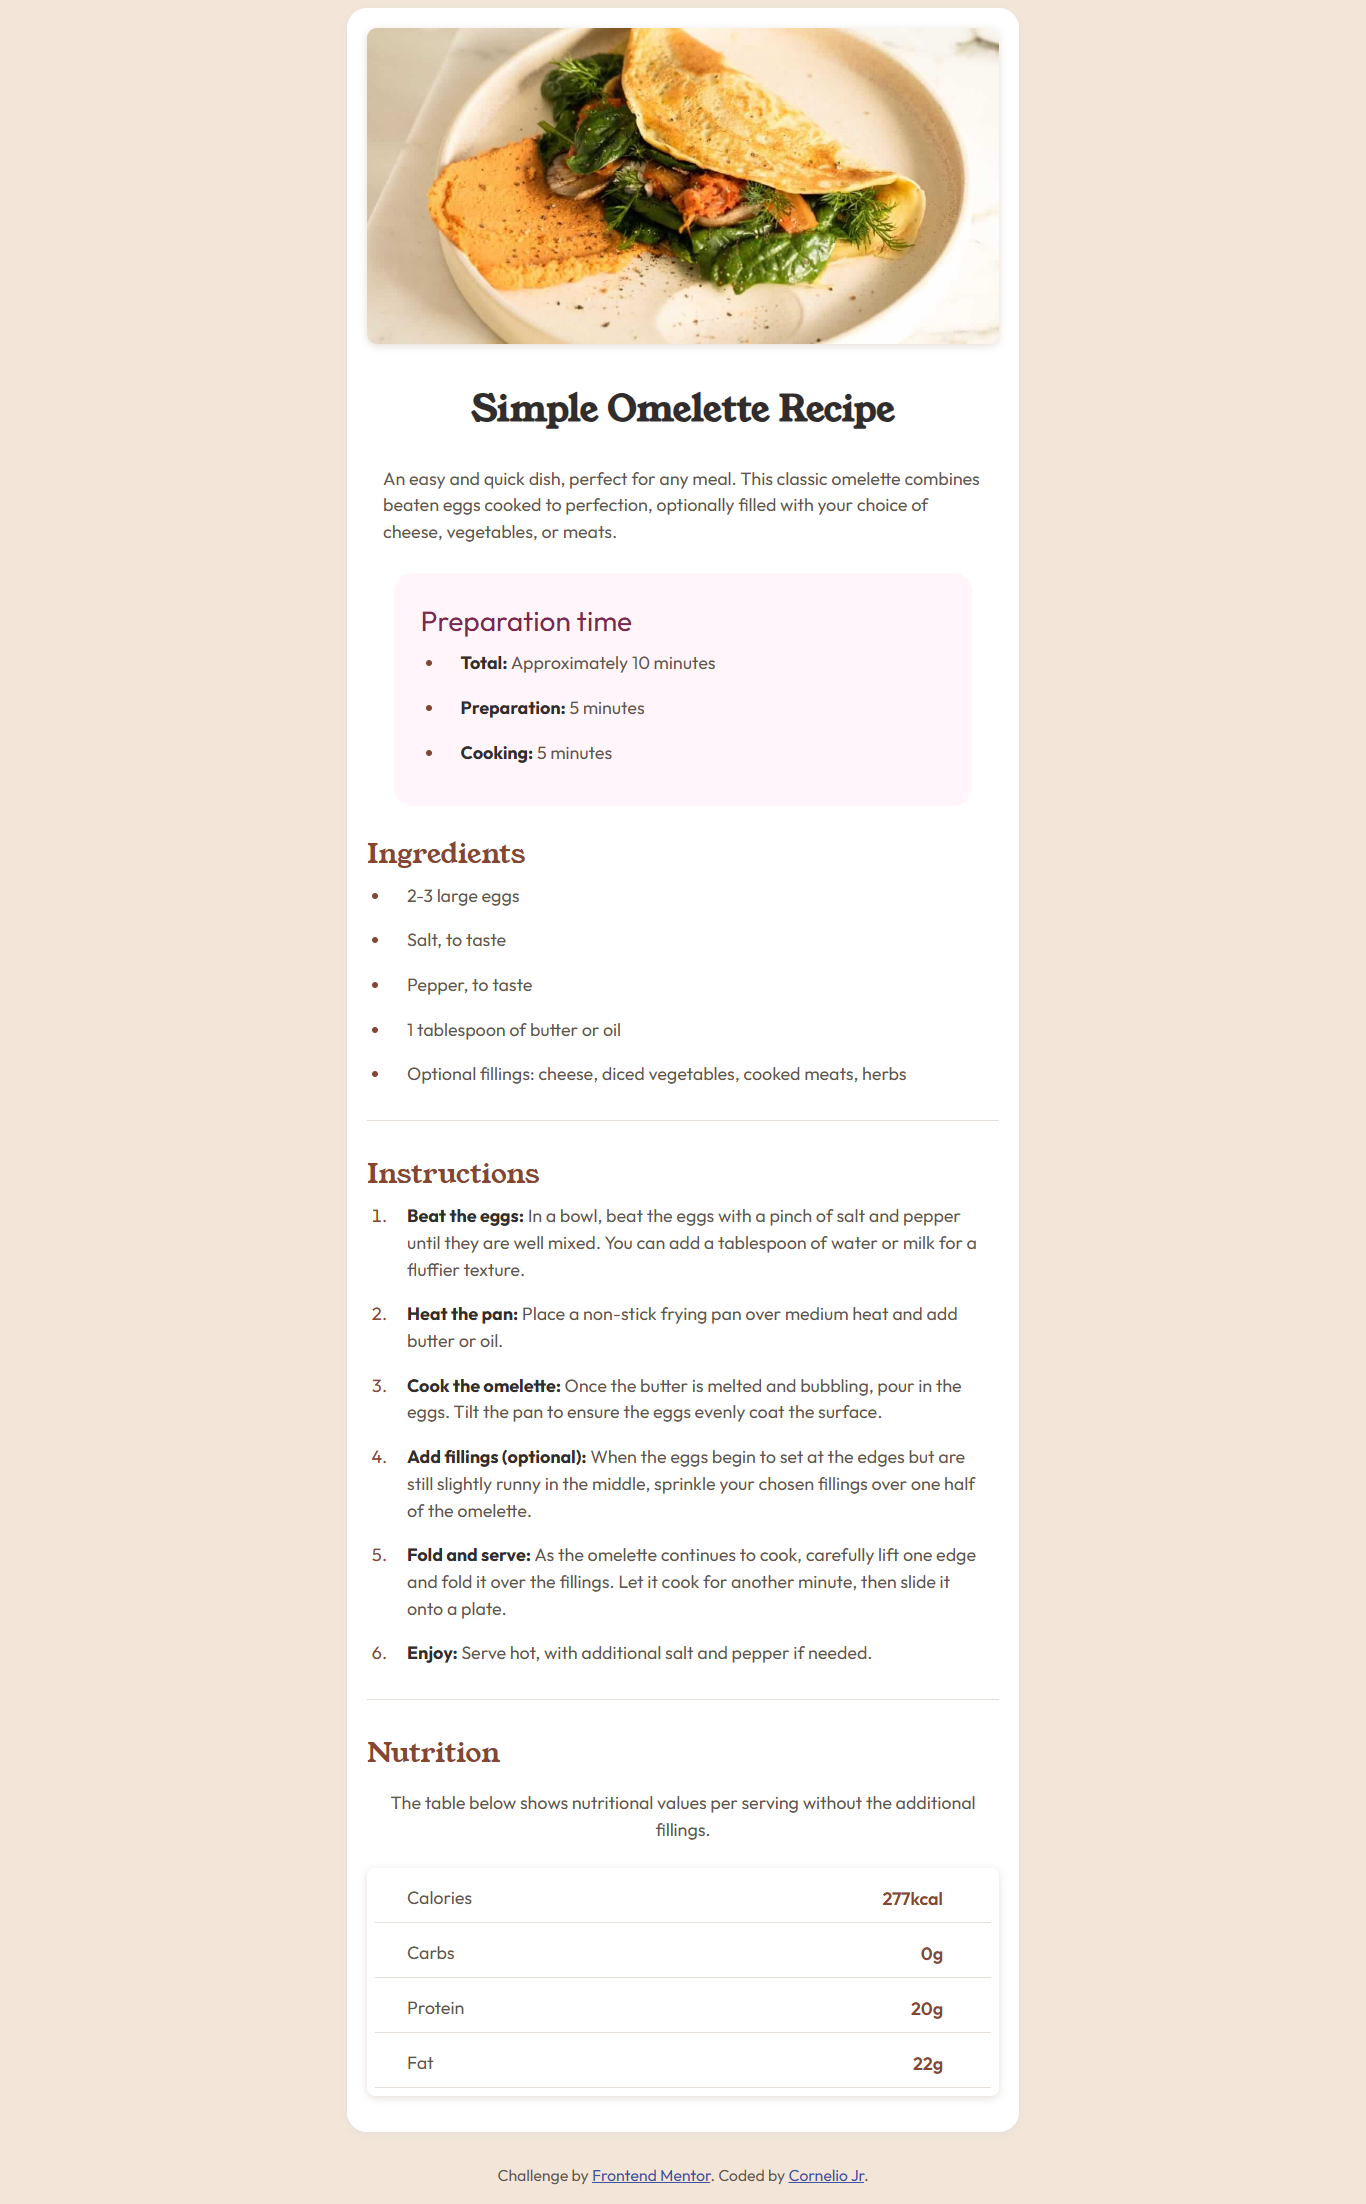
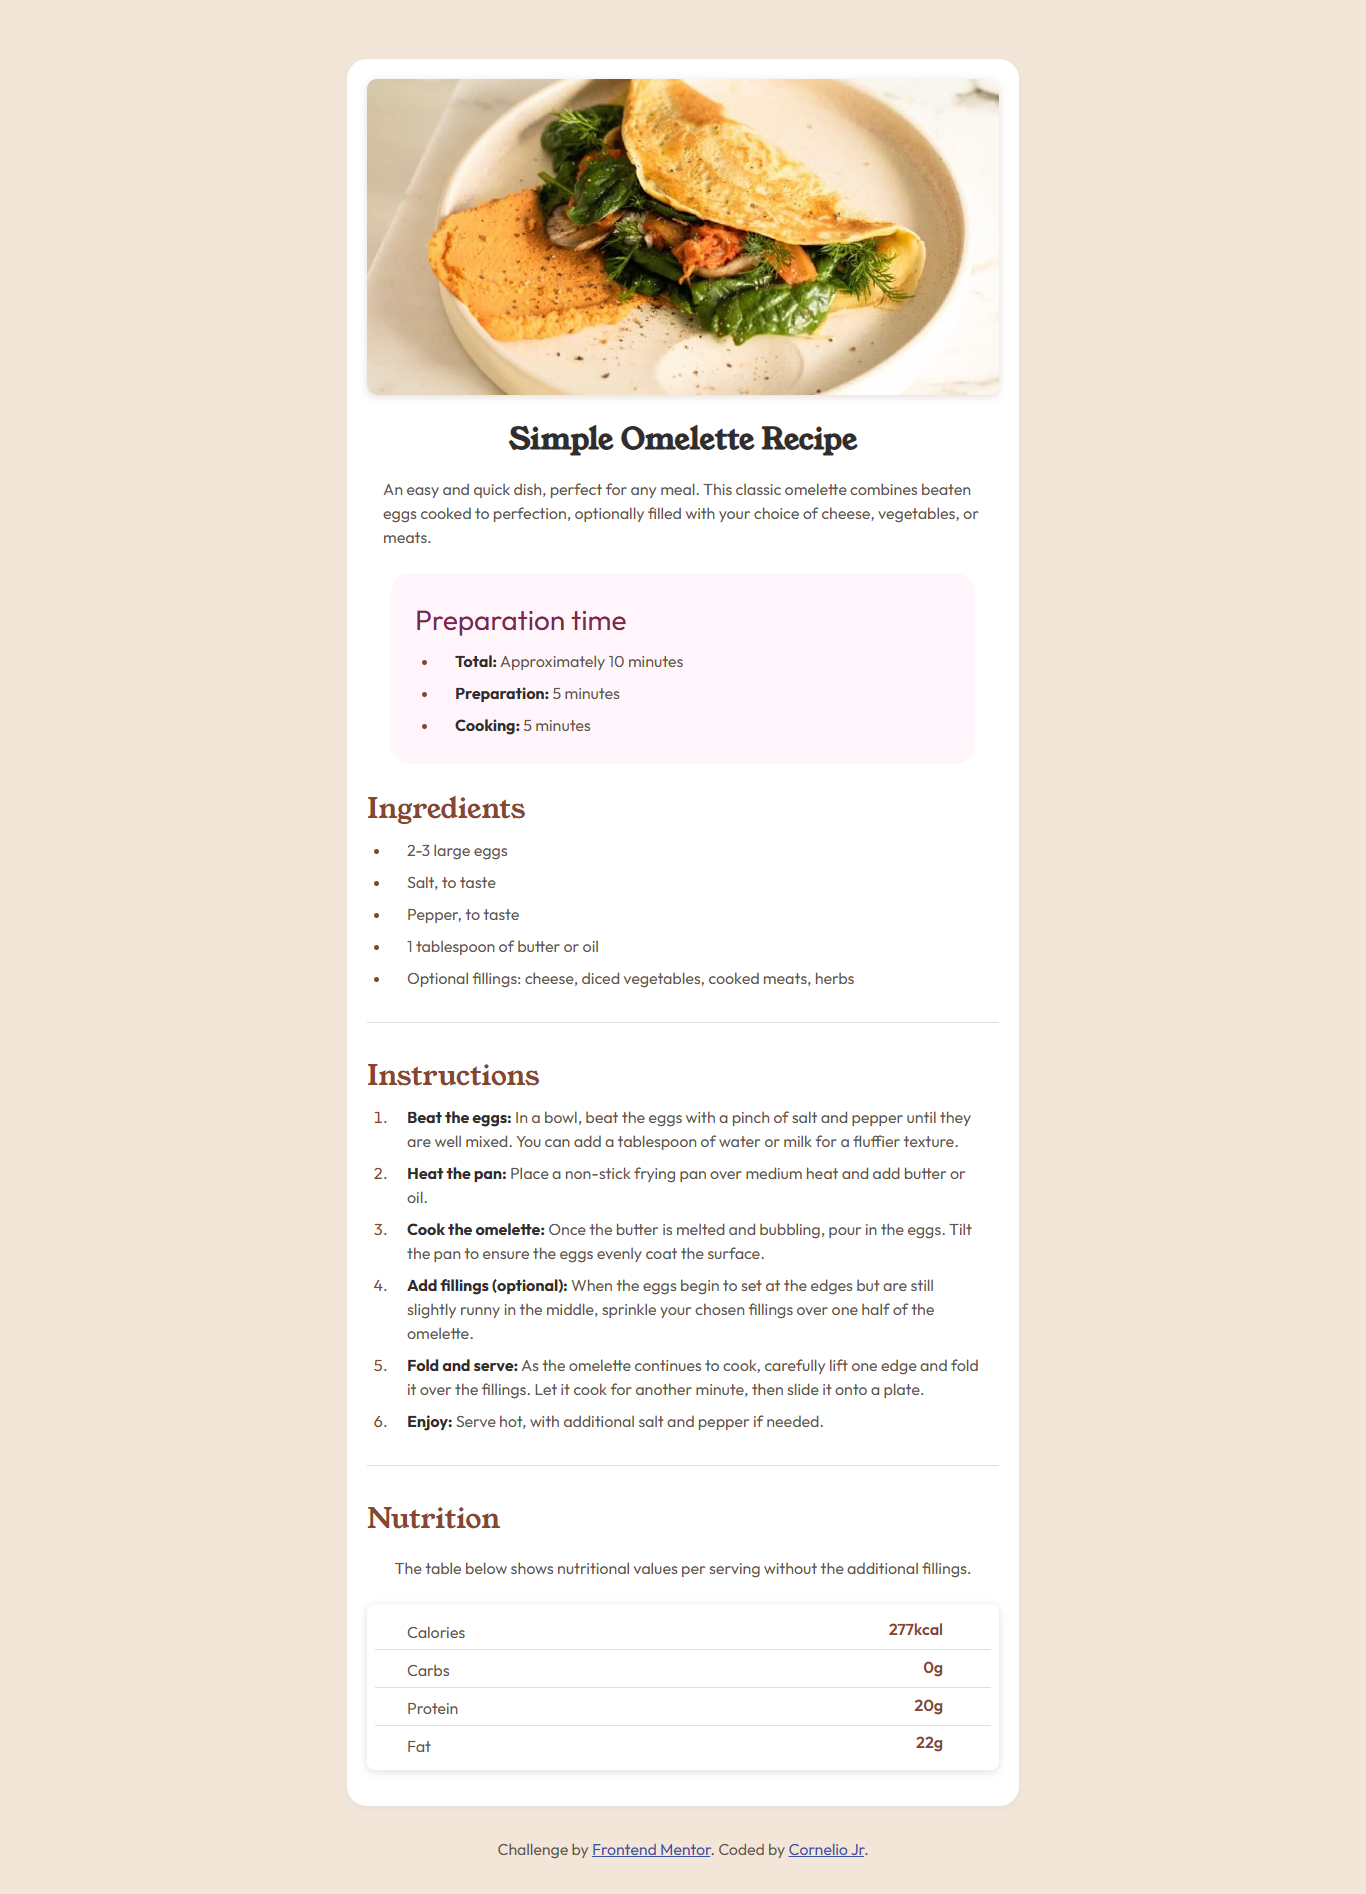
[style]: updated for mobile workflow

Changed region(s): [[0.246, 0.0, 0.7687, 0.9968], [0.5534, 0.4673, 0.5842, 0.4984], [0.4919, 0.4673, 0.5227, 0.4984]]

diff --git a/src/components/Recipe-page.vue b/src/components/Recipe-page.vue
@@ -3,10 +3,12 @@
   <main>
     <article>
       <header>
-        <img  
+        <picture>
+          <img  
         src="/src/assets/images/image-omelette.jpeg"
         alt="image-omelette.jpeg" 
         />
+      </picture>
         <h1>Simple Omelette Recipe</h1>
         <p>
           An easy and quick dish, perfect for any meal. This classic omelette
@@ -14,103 +16,104 @@
           choice of cheese, vegetables, or meats.
         </p>
       </header>
-      <section>
-        <div class="prep-time">
-          <h2 class="heading-name">Preparation time</h2>
-          <ul>
-            <!-- unordered list -->
-            <li><p><span>Total:</span> Approximately 10 minutes</p></li>
-            <li><p><span>Preparation:</span> 5 minutes</p></li>
-            <li><p><span>Cooking:</span> 5 minutes</p></li>
-          </ul>
-        </div>
-      </section>
-      <section>
-        <h2>Ingredients</h2>
-        <ul>
-          <!-- unordered list -->
-          <li><p>2-3 large eggs</p></li>
-          <li><p>Salt, to taste</p></li>
-          <li><p>Pepper, to taste</p></li>
-          <li><p>1 tablespoon of butter or oil</p></li>
-          <li>
-            <p>Optional fillings: cheese, diced vegetables, cooked meats, herbs</p>
-          </li>
-        </ul>
-      </section>
-      <hr />
-      <!-- horizontal line -->
-      <section>
-        <h2>Instructions</h2>
-        <ol>
-          <!-- ordered list -->
-          <li>
-            <p><span>Beat the eggs:</span> In a bowl, beat the eggs with a
-            pinch of salt and pepper until they are well mixed. You can add a
-            tablespoon of water or milk for a fluffier texture.
-          </p>
-          </li>
-          <li>
-            <p><span>Heat the pan:</span> Place a non-stick frying pan over medium heat
-              and add butter or oil.
-            </p>
-          </li>
-          <li>
-            <p><span>Cook the omelette:</span> Once the butter is melted and bubbling,
-            pour in the eggs. Tilt the pan to ensure the eggs evenly coat the
-            surface.
-          </p>
-          </li>
-          <li>
-            <p><span>Add fillings (optional):</span> When the eggs begin to set at the
-            edges but are still slightly runny in the middle, sprinkle your
-            chosen fillings over one half of the omelette.
-          </p>
-          </li>
-          <li>
-           <p><span>Fold and serve:</span> As the omelette continues to cook, carefully
-            lift one edge and fold it over the fillings. Let it cook for another
-            minute, then slide it onto a plate.
-          </p>
-          </li>
-          <li>
-            <p>
-              <span>Enjoy:</span> Serve hot, with additional salt and pepper if needed.
-            </p>
-          </li>
-        </ol>
-      </section>
-      <hr />
-      <!-- horizontal line -->
-      <section>
-        <h2>Nutrition</h2>
-        <table>
-          <!-- table -->
-          <caption>
-            The table below shows nutritional values per serving without the
-            additional fillings.
-          </caption>
-          <tbody>
-            <tr>
-              <td class="td-name">Calories</td>
-              <td class="td-grams">277kcal</td>
-            </tr>
-            <tr>
-              <td class="td-name">Carbs</td>
-              <td class="td-grams">0g</td>
-            </tr>
-            <tr>
-              <td class="td-name">Protein</td>
-              <td class="td-grams">20g</td>
-            </tr>
-            <tr>
-              <td class="td-name">Fat</td>
-              <td class="td-grams">22g</td>
-            </tr>
-          </tbody>
-        </table>
-      </section>
-      
+      <div class="menu">
+            <aside>
+            <div class="prep-time">
+              <h2 class="heading-name">Preparation time</h2>
+              <ul>
+                <!-- unordered list -->
+                <li><p><span>Total:</span> Approximately 10 minutes</p></li>
+                <li><p><span>Preparation:</span> 5 minutes</p></li>
+                <li><p><span>Cooking:</span> 5 minutes</p></li>
+              </ul>
+            </div>
+          </aside>
+          <section>
+            <h2>Ingredients</h2>
+            <ul>
+              <!-- unordered list -->
+              <li><p>2-3 large eggs</p></li>
+              <li><p>Salt, to taste</p></li>
+              <li><p>Pepper, to taste</p></li>
+              <li><p>1 tablespoon of butter or oil</p></li>
+              <li>
+                <p>Optional fillings: cheese, diced vegetables, cooked meats, herbs</p>
+              </li>
+            </ul>
+          </section>
+          <hr />
+          <!-- horizontal line -->
+          <section>
+            <h2>Instructions</h2>
+            <ol>
+              <!-- ordered list -->
+              <li>
+                <p><span>Beat the eggs:</span> In a bowl, beat the eggs with a
+                pinch of salt and pepper until they are well mixed. You can add a
+                tablespoon of water or milk for a fluffier texture.
+              </p>
+              </li>
+              <li>
+                <p><span>Heat the pan:</span> Place a non-stick frying pan over medium heat
+                  and add butter or oil.
+                </p>
+              </li>
+              <li>
+                <p><span>Cook the omelette:</span> Once the butter is melted and bubbling,
+                pour in the eggs. Tilt the pan to ensure the eggs evenly coat the
+                surface.
+              </p>
+              </li>
+              <li>
+                <p><span>Add fillings (optional):</span> When the eggs begin to set at the
+                edges but are still slightly runny in the middle, sprinkle your
+                chosen fillings over one half of the omelette.
+              </p>
+              </li>
+              <li>
+              <p><span>Fold and serve:</span> As the omelette continues to cook, carefully
+                lift one edge and fold it over the fillings. Let it cook for another
+                minute, then slide it onto a plate.
+              </p>
+              </li>
+              <li>
+                <p>
+                  <span>Enjoy:</span> Serve hot, with additional salt and pepper if needed.
+                </p>
+              </li>
+            </ol>
+          </section>
+          <hr />
+          <!-- horizontal line -->
+          <section>
+            <h2>Nutrition</h2>
+            <table>
+              <!-- table -->
+              <caption>
+                The table below shows nutritional values per serving without the
+                additional fillings.
+              </caption>
+              <tbody>
+                <tr>
+                  <td class="td-name">Calories</td>
+                  <td class="td-grams">277kcal</td>
+                </tr>
+                <tr>
+                  <td class="td-name">Carbs</td>
+                  <td class="td-grams">0g</td>
+                </tr>
+                <tr>
+                  <td class="td-name">Protein</td>
+                  <td class="td-grams">20g</td>
+                </tr>
+                <tr>
+                  <td class="td-name">Fat</td>
+                  <td class="td-grams">22g</td>
+                </tr>
+              </tbody>
+            </table>
+          </section>
+       </div>
     </article>
   </main>
   <!-- footer -->
@@ -129,18 +132,22 @@
 </template>
 
 <style scoped>
-.prep-time {
+aside .prep-time {
  background-color: var(--rose-50);
  padding: 1.2em 1.5em;
  margin: 1.5em;
  border-radius: 1.2rem;
  font-weight: var(--Outfit-weight-semi-bold);
 }
-section .heading-name {
+aside .heading-name {
   color: var(--rose-800); 
   margin-top: 0.4rem;
   font-family: var(--Outfit-font);
   font-weight: var(--Young-Serif-weight);
+}
+.menu{
+  margin: auto 0;
+  padding: 0.5rem;
 }
 .td-name{
   display: flex;
@@ -165,5 +172,15 @@ section .heading-name {
 
 .attribution a {
   color: hsl(228, 45%, 44%);
+}
+
+@media (min-width: 46.875rem) {
+  main{
+    margin: 1.75rem ;
+    padding: 1.25rem;
+  }
+  picture,img{
+    border-radius: 0.625rem;
+  }
 }
 </style>

diff --git a/src/style.css b/src/style.css
@@ -20,29 +20,25 @@
   --Outfit-weight-semi-bold: 600;
   --Outfit-weight-bold: 700;
   
-  --body-font-size: clamp(1rem, 0.956rem + 0.1878vw, 1.125rem);
-  --h1-font-size: clamp(2rem, 6vw + 1rem, 2.25rem);
-  --h2-font-size: clamp(1.5rem, 4vw + 1rem, 1.75rem);
+  --body-font-size: clamp(1rem, 1.088rem + -0.3756vw, 0.75rem);
+  --h1-font-size: clamp(1.5rem, 2vw + 1rem, 1.85rem);
+  --h2-font-size: clamp(1rem, 2vw + 1rem, 1.75rem);
   
 }
 *, *::before, *::after {
   box-sizing: border-box;
-  
-}
-*{
   font-weight: normal;
-}
-html, 
-body{
   margin: 0;
   padding: 0;
   scroll-behavior: smooth;
 }
+
 body{
   min-height: 100vh;
   line-height: 1.5;
   display: grid;
   place-items: center;
+  padding-block: 2rem;
   font-family: var(--Outfit-font);
   font-size: var(--body-font-size);
   background-color: var(--stone-100);
@@ -53,41 +49,38 @@ body{
   -moz-osx-font-smoothing: grayscale;
 }
 
-img,
+picuture, img,
 video,
 iframe,
 webp{
   max-inline-size: 100%;
   block-size: auto;
+  width: 100%;
+  height: auto;
+  margin: 0 auto;
   aspect-ratio: 2/1;
   object-fit: cover;
   object-position: top center;
   height: auto;
-  border-radius: 0.625rem;
   box-shadow: 0 0.125rem 0.5rem var(--stone-150);
   cursor: pointer;
 }
 
-img{
-  width: 100%;
-  height: auto;
-  margin: 0 auto;
-}
+
 main {
-  position: relative;
   display: flex;
   flex-direction: column;
   max-width: 42rem;
-  margin: 0.5rem ;
-  padding: 1.25rem;
   border-radius: 1.25rem;
   background-color: var(--white);
   box-shadow: 0 0.125rem 0.5rem var(--stone-150);
+  
 }
 
-h1 {
-  color: var(--stone-900);
 
+h1 {
+  margin:1rem 0;
+  color: var(--stone-900);
   text-align: center;
   font-family: var(--Young-Serif-font);
   font-weight: var(--Outfit-weight-bold);
@@ -107,8 +100,15 @@ table {
   margin-top: 1rem;
 }
 tr {
-  
-  border-bottom: 0.063rem solid var(--stone-150);
+  & + & {
+    border-block-start: 0.063rem solid var(--stone-150);
+  }
+  &:first-child {
+    padding-block-start: 0;
+  }
+  &:last-child {
+    padding-block-end: 0;
+  } 
 }
 hr {
   border: none;
@@ -122,7 +122,6 @@ hr {
 tbody {
   display: flex;
   flex-direction: column;
-  gap: 0.5rem;
   padding: 0.5rem;
   background-color: var(--white);
   border-radius: 0.5rem;
@@ -142,6 +141,7 @@ ul, ol{
   margin: 0.5rem 0;
   color: var(--brown-800);
   font-weight: var(--Outfit-weight-bold);
+  
 }
 p{
   color: var(--stone-600);
